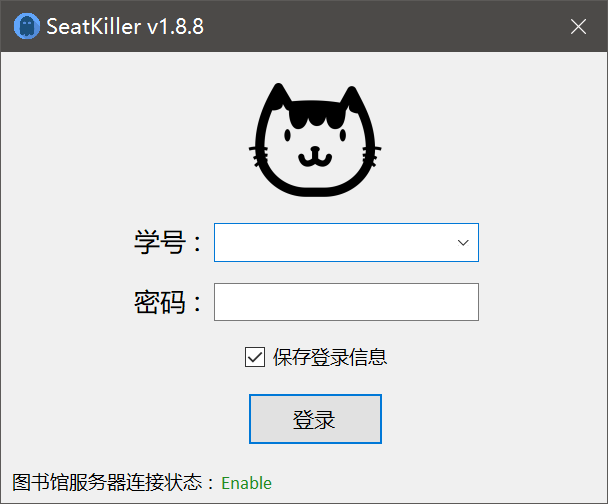
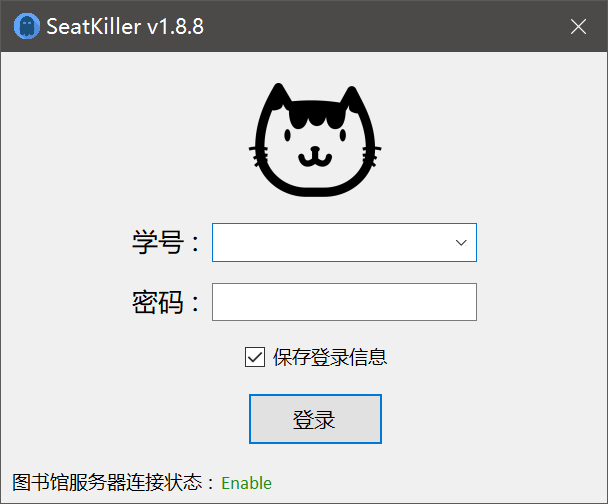
添加签名

diff --git a/SeatKiller_UI/About.Designer.cs b/SeatKiller_UI/About.Designer.cs
@@ -57,7 +57,7 @@
             this.pictureBox1.ErrorImage = null;
             this.pictureBox1.Image = ((System.Drawing.Image)(resources.GetObject("pictureBox1.Image")));
             this.pictureBox1.InitialImage = null;
-            this.pictureBox1.Location = new System.Drawing.Point(130, 49);
+            this.pictureBox1.Location = new System.Drawing.Point(128, 49);
             this.pictureBox1.Name = "pictureBox1";
             this.pictureBox1.Size = new System.Drawing.Size(140, 140);
             this.pictureBox1.SizeMode = System.Windows.Forms.PictureBoxSizeMode.Zoom;
@@ -67,7 +67,7 @@
             // label1
             // 
             this.label1.AutoSize = true;
-            this.label1.Location = new System.Drawing.Point(128, 214);
+            this.label1.Location = new System.Drawing.Point(125, 214);
             this.label1.Name = "label1";
             this.label1.Size = new System.Drawing.Size(142, 28);
             this.label1.TabIndex = 5;
@@ -77,7 +77,7 @@
             // 
             this.label2.AutoSize = true;
             this.label2.ForeColor = System.Drawing.SystemColors.ControlText;
-            this.label2.Location = new System.Drawing.Point(40, 307);
+            this.label2.Location = new System.Drawing.Point(39, 307);
             this.label2.Name = "label2";
             this.label2.Size = new System.Drawing.Size(309, 28);
             this.label2.TabIndex = 6;
@@ -101,7 +101,7 @@
             // 
             this.linkLabel1.AutoSize = true;
             this.linkLabel1.LinkColor = System.Drawing.SystemColors.HotTrack;
-            this.linkLabel1.Location = new System.Drawing.Point(95, 260);
+            this.linkLabel1.Location = new System.Drawing.Point(91, 260);
             this.linkLabel1.Name = "linkLabel1";
             this.linkLabel1.Size = new System.Drawing.Size(96, 28);
             this.linkLabel1.TabIndex = 8;
@@ -113,7 +113,7 @@
             // 
             this.linkLabel2.AutoSize = true;
             this.linkLabel2.LinkColor = System.Drawing.SystemColors.HotTrack;
-            this.linkLabel2.Location = new System.Drawing.Point(207, 260);
+            this.linkLabel2.Location = new System.Drawing.Point(204, 260);
             this.linkLabel2.Name = "linkLabel2";
             this.linkLabel2.Size = new System.Drawing.Size(96, 28);
             this.linkLabel2.TabIndex = 9;

diff --git a/SeatKiller_UI/Login.Designer.cs b/SeatKiller_UI/Login.Designer.cs
@@ -46,7 +46,7 @@
             // textBox1
             // 
             this.textBox1.Font = new System.Drawing.Font("Calibri", 10.71429F, System.Drawing.FontStyle.Regular, System.Drawing.GraphicsUnit.Point, ((byte)(0)));
-            this.textBox1.Location = new System.Drawing.Point(213, 231);
+            this.textBox1.Location = new System.Drawing.Point(211, 231);
             this.textBox1.Margin = new System.Windows.Forms.Padding(4);
             this.textBox1.Name = "textBox1";
             this.textBox1.PasswordChar = '*';
@@ -58,7 +58,7 @@
             // 
             this.label1.AutoSize = true;
             this.label1.Font = new System.Drawing.Font("微软雅黑", 10.71429F, System.Drawing.FontStyle.Regular, System.Drawing.GraphicsUnit.Point, ((byte)(134)));
-            this.label1.Location = new System.Drawing.Point(127, 171);
+            this.label1.Location = new System.Drawing.Point(125, 171);
             this.label1.Margin = new System.Windows.Forms.Padding(4, 0, 4, 0);
             this.label1.Name = "label1";
             this.label1.Size = new System.Drawing.Size(81, 35);
@@ -69,7 +69,7 @@
             // 
             this.label2.AutoSize = true;
             this.label2.Font = new System.Drawing.Font("微软雅黑", 10.71429F, System.Drawing.FontStyle.Regular, System.Drawing.GraphicsUnit.Point, ((byte)(134)));
-            this.label2.Location = new System.Drawing.Point(127, 231);
+            this.label2.Location = new System.Drawing.Point(125, 231);
             this.label2.Margin = new System.Windows.Forms.Padding(4, 0, 4, 0);
             this.label2.Name = "label2";
             this.label2.Size = new System.Drawing.Size(81, 35);
@@ -149,7 +149,7 @@
             // 
             this.comboBox1.Font = new System.Drawing.Font("Calibri", 10.71429F, System.Drawing.FontStyle.Regular, System.Drawing.GraphicsUnit.Point, ((byte)(0)));
             this.comboBox1.FormattingEnabled = true;
-            this.comboBox1.Location = new System.Drawing.Point(213, 171);
+            this.comboBox1.Location = new System.Drawing.Point(211, 171);
             this.comboBox1.Margin = new System.Windows.Forms.Padding(4);
             this.comboBox1.Name = "comboBox1";
             this.comboBox1.Size = new System.Drawing.Size(265, 39);
